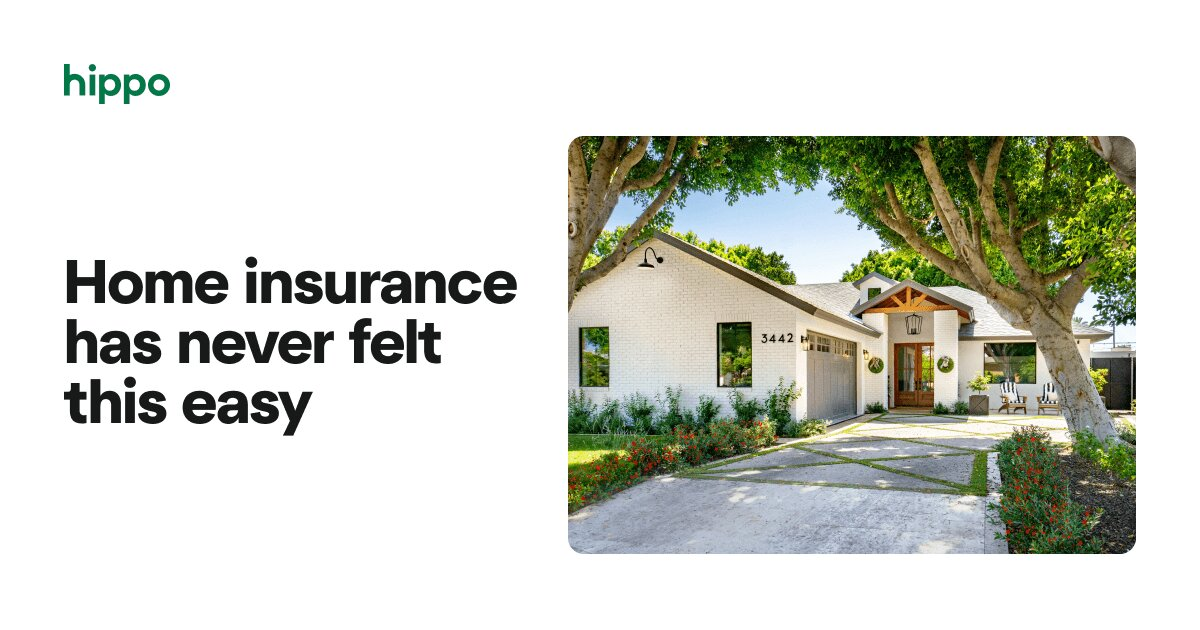
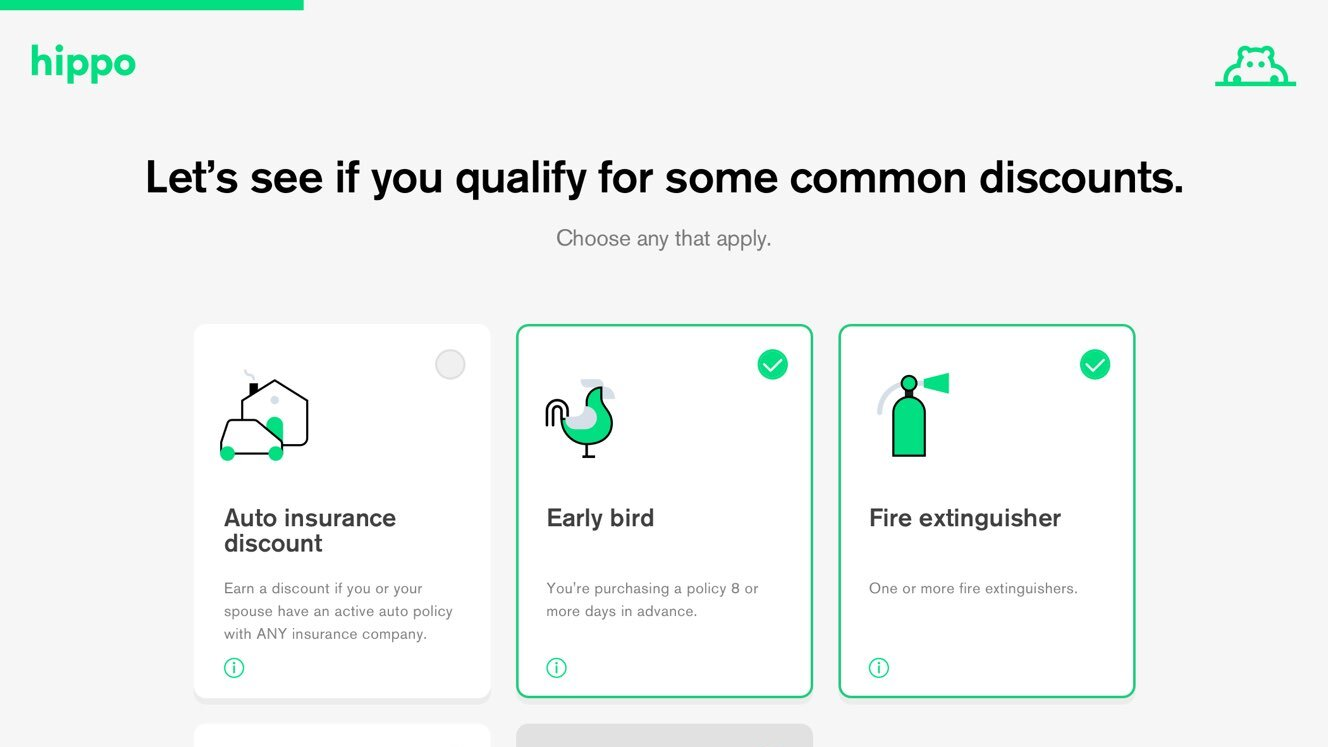
feat: add Ticketfly Promoter and product previews for SwingDev projects

diff --git a/src/lib/data.ts b/src/lib/data.ts
@@ -10,6 +10,9 @@ import gedeonMedicaImg from '../../public/projects/gedeon-medica.png';
 import electrosmartImg from '../../public/projects/electrosmart.jpg';
 import houseOfBambooImg from '../../public/projects/house-of-bamboo.jpg';
 import hippoImg from '../../public/projects/hippo.jpg';
+import scaleVpImg from '../../public/projects/scale-venture-partners.jpg';
+import sharespaceImg from '../../public/projects/sharespace.jpg';
+import ticketflyImg from '../../public/projects/ticketfly.jpg';
 
 export type Project = {
   title: string;
@@ -149,6 +152,7 @@ export const projects: Project[] = [
     descriptionKey: 'proj12Desc',
     url: 'https://www.scalevp.com/',
     logo: '/logos/scalevp.svg',
+    image: scaleVpImg,
     tech: ['AngularJS', 'Node.js', 'PostgreSQL', 'Cypress', 'Highcharts', 'AWS'],
     date: '2019 – 2021',
     role: 'Full-Stack Developer',
@@ -167,6 +171,7 @@ export const projects: Project[] = [
     descriptionKey: 'proj14Desc',
     url: 'https://web.archive.org/web/2018/https://joinsharespace.com/',
     logo: '/logos/sharespace.svg',
+    image: sharespaceImg,
     tech: ['React', 'TypeScript', 'Redux', 'Java', 'App Engine', 'Stripe'],
     date: '2017 – 2018',
     role: 'Frontend Developer',
@@ -178,6 +183,16 @@ export const projects: Project[] = [
     logo: '/logos/blitztv.svg',
     tech: ['React', 'Redux', 'Redux-Saga', 'Firebase', 'Node.js'],
     date: '2016 – 2017',
+    role: 'Frontend Developer',
+  },
+  {
+    title: 'Ticketfly Promoter',
+    descriptionKey: 'proj16Desc',
+    url: 'https://web.archive.org/web/2016/https://www.ticketfly.com/promoter/',
+    logo: '/logos/ticketfly.svg',
+    image: ticketflyImg,
+    tech: ['JavaScript', 'HTML', 'CSS'],
+    date: '2015 – 2016',
     role: 'Frontend Developer',
   },
 ];
